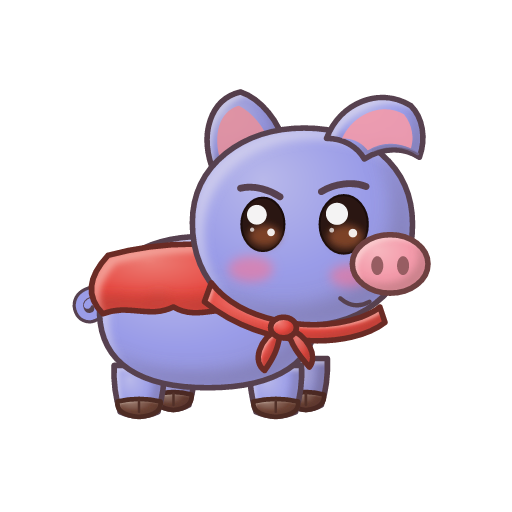
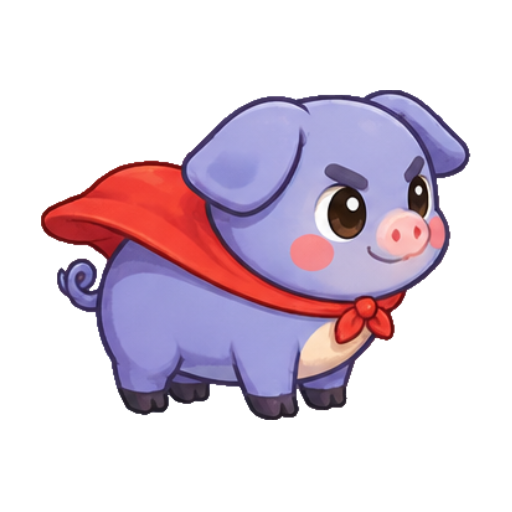
feat(art): batch 3 - pigs cut from asset/reference
npm run art:cut: 8 pigs cut from the reference sheets (alpha blob + hole fill,
one scale per sheet, feet on y=420) + white/brown recoloured from classic.
Their sleepAsset dropped (idle + fx_zzz fallback). Sleep tests use a fixture.
assets:release OK, check green (448 tests); seen in dev asset gallery.

Changed region(s): [[0.0625, 0.1562, 0.9375, 0.8438]]

diff --git a/scripts/cut-reference.ts b/scripts/cut-reference.ts
@@ -1,0 +1,300 @@
+// Cuts pigs out of the concept sheets in asset/reference/ (user request: use the reference art
+// itself). The sheets already carry alpha (the coloured glow is RGB under ~transparent pixels), so
+// the character is the largest opaque blob of the crop, holes filled. Each pig is then
+// scaled by one factor per sheet (relative sizes stay as painted) and placed on the 512² canvas
+// with its lowest pixel on the 82 % ground line. Output goes to art_inbox/ for npm run art:process.
+// The sheets have no sleeping poses, so cut pigs drop their `sleepAsset` (the game then shows the
+// idle frame + fx_zzz, DECISIONS Q5) and their old sleep files are removed.
+// Usage: npm run art:cut
+import { existsSync, mkdirSync, readFileSync, rmSync, writeFileSync } from 'node:fs';
+import { join } from 'node:path';
+import { PNG } from 'pngjs';
+import { patchRowText } from './assets/manifestText';
+
+const INBOX = 'art_inbox';
+const ASSETS = 'public/assets';
+const MANIFEST = join(ASSETS, 'manifest', 'assets.json');
+const SIZE = 512;
+const FEET = Math.round(SIZE * 0.82);
+/** Height (ears to hooves) the plain pink pig of each sheet gets on the 512 canvas. */
+const CLASSIC_HEIGHT = 330;
+/** Alpha above this is the character; the sheets' glow sits far below it. */
+const SOLID = 128;
+
+interface Img {
+  w: number;
+  h: number;
+  d: Buffer;
+}
+interface Cut {
+  id: string;
+  sheet: string;
+  box: [number, number, number, number]; // x, y, w, h on the sheet
+  /** Optional recolour of the body (white / brown variants of the plain pig). */
+  tint?: (r: number, g: number, b: number) => [number, number, number];
+}
+
+const ENV = 'asset/reference/style_reference_environment.png';
+const PIGS = 'asset/reference/style_reference_pigs.png';
+/** Grid cell of the pig sheet, widened so hats and hooves crossing the cell edge stay whole. */
+const cell = (c: number, r: number): [number, number, number, number] => {
+  const m = 40,
+    x = Math.max(0, c * 256 - m),
+    y = Math.max(0, r * 256 - m);
+  return [x, y, Math.min(1536, c * 256 + 256 + m) - x, Math.min(1024, r * 256 + 256 + m) - y];
+};
+
+/**
+ * Pink → another coat, keeping each pixel's lightness so the painted shading survives. The weight
+ * follows how pink the pixel is (smooth, no hard edge), so outline and eyes barely move.
+ */
+const recolour =
+  (target: [number, number, number], strength: number, bright = 1) =>
+  (r: number, g: number, b: number): [number, number, number] => {
+    const lum = (c: [number, number, number]) => 0.3 * c[0] + 0.59 * c[1] + 0.11 * c[2];
+    // Soft pink body/ears weigh most; the deeper snout and blush (r − g > 75) keep their pink.
+    const d = r - g;
+    const w = Math.max(0, Math.min(1, (d - 10) / 35, (105 - d) / 30)) * strength;
+    const f = (lum([r, g, b]) / lum(target)) * bright;
+    const clamp = (v: number) => Math.max(0, Math.min(255, v));
+    return [
+      clamp(r + (target[0] * f - r) * w),
+      clamp(g + (target[1] * f - g) * w),
+      clamp(b + (target[2] * f - b) * w),
+    ];
+  };
+
+export const CUTS: Cut[] = [
+  { id: 'pig_classic', sheet: ENV, box: [20, 50, 360, 300] },
+  { id: 'pig_watermelon', sheet: ENV, box: [395, 30, 370, 320] },
+  { id: 'pig_superhero', sheet: ENV, box: [770, 50, 370, 300] },
+  { id: 'pig_thienlong', sheet: ENV, box: [1140, 30, 390, 320] },
+  { id: 'pig_black', sheet: PIGS, box: cell(4, 0) },
+  { id: 'pig_farmer', sheet: PIGS, box: cell(0, 1) },
+  { id: 'pig_chef', sheet: PIGS, box: cell(1, 2) },
+  { id: 'pig_nerd', sheet: PIGS, box: cell(2, 2) },
+  {
+    id: 'pig_white',
+    sheet: ENV,
+    box: [20, 50, 360, 300],
+    tint: recolour([252, 240, 230], 0.9, 1.18),
+  },
+  {
+    id: 'pig_brown',
+    sheet: ENV,
+    box: [20, 50, 360, 300],
+    tint: recolour([186, 120, 76], 0.95, 0.78),
+  },
+];
+
+/** Plain pig used to fix each sheet's scale. */
+const SCALE_REF: Record<string, [number, number, number, number]> = {
+  [ENV]: [20, 50, 360, 300],
+  [PIGS]: cell(0, 0),
+};
+
+function load(path: string): Img {
+  const p = PNG.sync.read(readFileSync(path));
+  return { w: p.width, h: p.height, d: p.data };
+}
+
+function crop(src: Img, [x, y, w, h]: [number, number, number, number]): Img {
+  const d = Buffer.alloc(w * h * 4);
+  for (let r = 0; r < h; r++)
+    src.d.copy(d, r * w * 4, ((y + r) * src.w + x) * 4, ((y + r) * src.w + x + w) * 4);
+  return { w, h, d };
+}
+
+/** Foreground mask: opaque pixels, largest blob only, enclosed holes filled. */
+function mask(im: Img): Uint8Array {
+  const { w, h, d } = im;
+  const n = w * h;
+  const bg = new Uint8Array(n);
+  for (let i = 0; i < n; i++) bg[i] = d[i * 4 + 3]! > SOLID ? 0 : 1;
+  // Largest 4-connected foreground blob.
+  const label = new Int32Array(n).fill(-1);
+  let best = -1,
+    bestSize = 0;
+  for (let s = 0; s < n; s++) {
+    if (bg[s] || label[s] !== -1) continue;
+    let size = 0;
+    const q = [s];
+    label[s] = s;
+    while (q.length) {
+      const i = q.pop()!;
+      size++;
+      const x = i % w;
+      for (const j of [
+        x > 0 ? i - 1 : -1,
+        x < w - 1 ? i + 1 : -1,
+        i >= w ? i - w : -1,
+        i < n - w ? i + w : -1,
+      ]) {
+        if (j >= 0 && !bg[j] && label[j] === -1) {
+          label[j] = s;
+          q.push(j);
+        }
+      }
+    }
+    if (size > bestSize) {
+      bestSize = size;
+      best = s;
+    }
+  }
+  const fg = new Uint8Array(n);
+  for (let i = 0; i < n; i++) fg[i] = label[i] === best ? 1 : 0;
+  // Fill holes: background pockets not connected to the border become foreground.
+  const outside = new Uint8Array(n);
+  const q: number[] = [];
+  const seed = (i: number) => {
+    if (!fg[i] && !outside[i]) {
+      outside[i] = 1;
+      q.push(i);
+    }
+  };
+  for (let x = 0; x < w; x++) {
+    seed(x);
+    seed((h - 1) * w + x);
+  }
+  for (let y = 0; y < h; y++) {
+    seed(y * w);
+    seed(y * w + w - 1);
+  }
+  while (q.length) {
+    const i = q.pop()!;
+    const x = i % w;
+    for (const j of [
+      x > 0 ? i - 1 : -1,
+      x < w - 1 ? i + 1 : -1,
+      i >= w ? i - w : -1,
+      i < n - w ? i + w : -1,
+    ]) {
+      if (j >= 0) seed(j);
+    }
+  }
+  for (let i = 0; i < n; i++) if (!outside[i]) fg[i] = 1;
+  return fg;
+}
+
+/** RGBA cut-out with a 1 px feathered edge. */
+function cutout(im: Img, fg: Uint8Array, tint?: Cut['tint']): Img {
+  const { w, h } = im;
+  const d = Buffer.alloc(w * h * 4);
+  for (let y = 0; y < h; y++) {
+    for (let x = 0; x < w; x++) {
+      const i = y * w + x;
+      let sum = 0,
+        cnt = 0;
+      for (let dy = -1; dy <= 1; dy++)
+        for (let dx = -1; dx <= 1; dx++) {
+          const xx = x + dx,
+            yy = y + dy;
+          if (xx >= 0 && yy >= 0 && xx < w && yy < h) {
+            sum += fg[yy * w + xx]!;
+            cnt++;
+          }
+        }
+      const painted = im.d[i * 4 + 3]!;
+      const a = fg[i]
+        ? painted > 240
+          ? 255
+          : Math.round(255 * Math.min(1, (sum / cnt) * 1.4))
+        : 0;
+      let [r, g, b] = [im.d[i * 4]!, im.d[i * 4 + 1]!, im.d[i * 4 + 2]!];
+      if (tint && a > 0) [r, g, b] = tint(r, g, b);
+      d[i * 4] = Math.round(r);
+      d[i * 4 + 1] = Math.round(g);
+      d[i * 4 + 2] = Math.round(b);
+      d[i * 4 + 3] = a;
+    }
+  }
+  return { w, h, d };
+}
+
+function bbox(im: Img) {
+  let x0 = im.w,
+    y0 = im.h,
+    x1 = -1,
+    y1 = -1;
+  for (let y = 0; y < im.h; y++)
+    for (let x = 0; x < im.w; x++)
+      if (im.d[(y * im.w + x) * 4 + 3]! > 16) {
+        x0 = Math.min(x0, x);
+        x1 = Math.max(x1, x);
+        y0 = Math.min(y0, y);
+        y1 = Math.max(y1, y);
+      }
+  return { x: x0, y: y0, w: x1 - x0 + 1, h: y1 - y0 + 1 };
+}
+
+/** Bilinear resample (premultiplied) of `im` by `s`, pasted with its bbox at (ox, oy) on a 512² canvas. */
+function placeScaled(im: Img, s: number, feetY: number): Img {
+  const b = bbox(im);
+  const out: Img = { w: SIZE, h: SIZE, d: Buffer.alloc(SIZE * SIZE * 4) };
+  const W = b.w * s,
+    H = b.h * s;
+  const ox = Math.round((SIZE - W) / 2),
+    oy = Math.round(feetY - H);
+  const sample = (fx: number, fy: number, c: number) => {
+    const x = Math.max(0, Math.min(im.w - 1, fx)),
+      y = Math.max(0, Math.min(im.h - 1, fy));
+    const x0 = Math.floor(x),
+      y0 = Math.floor(y),
+      x1 = Math.min(im.w - 1, x0 + 1),
+      y1 = Math.min(im.h - 1, y0 + 1);
+    const tx = x - x0,
+      ty = y - y0;
+    const at = (xx: number, yy: number) => {
+      const i = (yy * im.w + xx) * 4;
+      return c === 3 ? im.d[i + 3]! : (im.d[i + c]! * im.d[i + 3]!) / 255;
+    };
+    return (
+      (at(x0, y0) * (1 - tx) + at(x1, y0) * tx) * (1 - ty) +
+      (at(x0, y1) * (1 - tx) + at(x1, y1) * tx) * ty
+    );
+  };
+  for (let y = Math.max(0, oy); y < Math.min(SIZE, oy + Math.ceil(H)); y++) {
+    for (let x = Math.max(0, ox); x < Math.min(SIZE, ox + Math.ceil(W)); x++) {
+      const fx = b.x + (x - ox + 0.5) / s - 0.5,
+        fy = b.y + (y - oy + 0.5) / s - 0.5;
+      const a = sample(fx, fy, 3);
+      if (a < 1) continue;
+      const o = (y * SIZE + x) * 4;
+      for (let c = 0; c < 3; c++) out.d[o + c] = Math.round((sample(fx, fy, c) * 255) / a);
+      out.d[o + 3] = Math.round(a);
+    }
+  }
+  return out;
+}
+
+function main() {
+  mkdirSync(INBOX, { recursive: true });
+  const sheets = new Map<string, Img>();
+  const sheet = (p: string) => sheets.get(p) ?? (sheets.set(p, load(p)), sheets.get(p)!);
+  const scale = new Map<string, number>();
+  for (const [p, box] of Object.entries(SCALE_REF)) {
+    const im = crop(sheet(p), box);
+    scale.set(p, CLASSIC_HEIGHT / bbox(cutout(im, mask(im))).h);
+  }
+  for (const c of CUTS) {
+    const im = crop(sheet(c.sheet), c.box);
+    const pig = cutout(im, mask(im), c.tint);
+    const out = placeScaled(pig, scale.get(c.sheet)!, FEET);
+    const png = new PNG({ width: SIZE, height: SIZE });
+    out.d.copy(png.data);
+    writeFileSync(join(INBOX, `${c.id}.png`), PNG.sync.write(png));
+    console.log(`${c.id}: ${bbox(pig).w}x${bbox(pig).h} → x${scale.get(c.sheet)!.toFixed(2)}`);
+  }
+  let text = readFileSync(MANIFEST, 'utf8');
+  const pigs = (JSON.parse(text) as { pigs: { id: string; sleepAsset?: string | null }[] }).pigs;
+  for (const c of CUTS) {
+    const sleep = pigs.find((p) => p.id === c.id)?.sleepAsset;
+    if (!sleep) continue;
+    text = patchRowText(text, c.id, { sleepAsset: null });
+    if (existsSync(join(ASSETS, sleep))) rmSync(join(ASSETS, sleep));
+    rmSync(join(INBOX, `${c.id}_sleep.png`), { force: true });
+  }
+  writeFileSync(MANIFEST, text);
+}
+
+main();

diff --git a/tests/unit/farmView.test.ts b/tests/unit/farmView.test.ts
@@ -149,7 +149,10 @@ describe('scene layout (spec §11.1)', () => {
 
 describe('preload list (spec §11)', () => {
   it('has environment, all trough states, fx, ui icons and the requested skins only', () => {
-    const list = farmLoadList(reg, ['pig_classic', 'pig_classic']);
+    // Fixture: the classic skin with its own sleep frame (cut skins may have none).
+    const m = manifest();
+    m.pigs.find((p) => p.id === 'pig_classic')!.sleepAsset = 'pigs/base/pig_classic_sleep.png';
+    const list = farmLoadList(createAssetRegistry(m), ['pig_classic', 'pig_classic']);
     const keys = list.images.map((i) => i.key);
     for (const k of ['env_sky', 'env_ground_grass', 'prop_pig_house', 'fx_sick', 'ui_icon_gold'])
       expect(keys).toContain(k);

diff --git a/scripts/generate-art.ts b/scripts/generate-art.ts
@@ -1,7 +1,8 @@
 // Generated art + sound for the v1 manifest (art standard §10 waves 1–2), drawn with one style kit
 // (scripts/art/kit.ts) so every family matches the reference sheets. Writes raw files into
 // art_inbox/ for `npm run art:process`, and the app icon into build/.
-// Usage: npm run art:generate && npm run art:process
+// Usage: npm run art:generate && npm run art:cut && npm run art:process (art:cut overwrites the pigs
+// that exist in asset/reference/ with cut-outs of the reference art).
 import { copyFileSync, existsSync, mkdirSync, writeFileSync } from 'node:fs';
 import { join } from 'node:path';
 import { ICON_FILES, appIconSvg } from './art/icons';

diff --git a/tests/unit/assets.test.ts b/tests/unit/assets.test.ts
@@ -64,7 +64,12 @@ describe('asset registry (spec §11.4)', () => {
   });
 
   it('sleep: own frame when present, else idle + fx_zzz (DECISIONS Q5)', () => {
-    expect(reg.pigTexture('pig_classic', 'PIG_EARTH_PINK', true)).toEqual({
+    const withSleep = manifest();
+    withSleep.pigs.find((p) => p.id === 'pig_classic')!.sleepAsset =
+      'pigs/base/pig_classic_sleep.png';
+    expect(
+      createAssetRegistry(withSleep).pigTexture('pig_classic', 'PIG_EARTH_PINK', true),
+    ).toEqual({
       skinId: 'pig_classic',
       url: 'assets/pigs/base/pig_classic_sleep.png',
       overlay: null,

diff --git a/scripts/assets/manifestText.ts b/scripts/assets/manifestText.ts
@@ -3,7 +3,11 @@
  * Sets string fields on the row with `id`, editing the hand-formatted manifest text in place so the
  * diff shows only the changed fields (re-serialising would reflow the whole file).
  */
-export function patchRowText(text: string, id: string, fields: Record<string, string>): string {
+export function patchRowText(
+  text: string,
+  id: string,
+  fields: Record<string, string | null>,
+): string {
   const at = text.indexOf(`"id": ${JSON.stringify(id)}`);
   if (at < 0) throw new Error(`manifest: row ${id} not found`);
   const start = text.lastIndexOf('{', at);

diff --git a/tests/unit/visualStates.test.ts b/tests/unit/visualStates.test.ts
@@ -21,6 +21,9 @@ import { makePig } from './pigFactory';
 
 const parsed = parseManifest(structuredClone(manifestJson));
 if (!parsed.ok) throw new Error(parsed.message);
+// Fixture: the classic skin with its own sleep frame (skins cut from the reference sheets have none).
+parsed.manifest.pigs.find((p) => p.id === 'pig_classic')!.sleepAsset =
+  'pigs/base/pig_classic_sleep.png';
 const reg = createAssetRegistry(parsed.manifest);
 const layout = parsed.manifest.layout;
 

diff --git a/DECISIONS.md b/DECISIONS.md
@@ -219,3 +219,6 @@ Spec: art §4, §7, §10; AI pack §1–§9; env catalogue §0–§4, §6 · Pha
 
 **ART-3** · Làm lại lô 1 theo phản hồi "xấu, cẩu thả": `part()` chuyển sang tô kiểu tranh (gradient tròn sáng trên-trái, bóng lõi mờ dưới-phải, viền sáng mờ trên-trái) + `softSpot` (má hồng, ánh mắt, bóng). Heo theo tỉ lệ chibi của `asset/reference/`: đầu ≈ thân, mắt to 3 điểm sáng, tai cụp to, chân ngắn tròn nằm sau thân, thân nâng lên y 210–386. Nhà/kho: mái ngói vảy (`roofTiles`), gỗ có vân/mắt gỗ (`grain`); mây không viền; nền cỏ dịu. Bỏ mặt nạ của heo siêu nhân (mẫu không có).
 Spec: art §1, AI pack §1.1 · Phase: ART.
+
+**ART-4** · Heo cắt thẳng từ ảnh mẫu (user yêu cầu): `npm run art:cut` (`scripts/cut-reference.ts`). Ảnh mẫu đã có alpha (quầng màu chỉ là RGB dưới điểm trong suốt) → tách = blob đặc lớn nhất (alpha > 128) + lấp lỗ. Một hệ số phóng/sheet (heo hồng của sheet cao 330 px) để giữ tỉ lệ như vẽ; đặt trên 512², điểm thấp nhất y=420. 10 skin: classic/watermelon/superhero/thienlong (sheet môi trường), black/farmer/chef/nerd (sheet heo), white/brown = classic đổi màu giữ độ sáng (mõm và má giữ hồng). Ảnh mẫu không có tư thế ngủ → 10 skin này bỏ `sleepAsset` (game dùng idle + fx_zzz, Q5). Test sleep frame dùng fixture manifest thay vì dữ liệu thật. 7 skin còn lại (knight, wizard, cowboy, detective, ghost, christmas, tet) vẫn là bản vector — ảnh mẫu không có.
+Spec: AI pack §3.3, §8 · Phase: ART.
